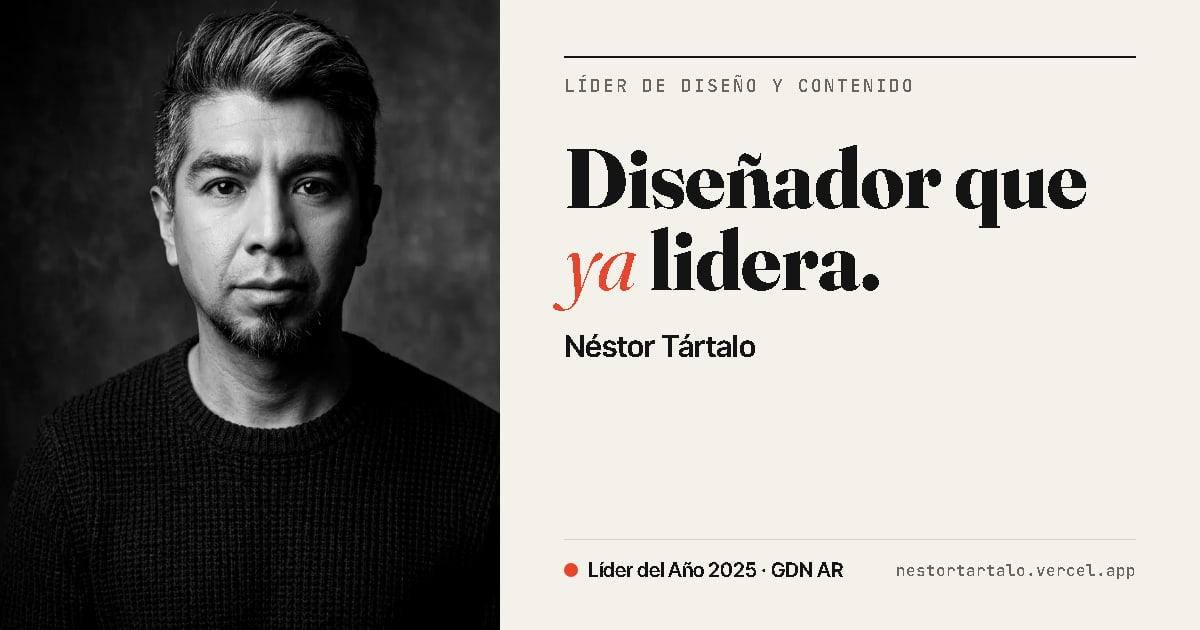
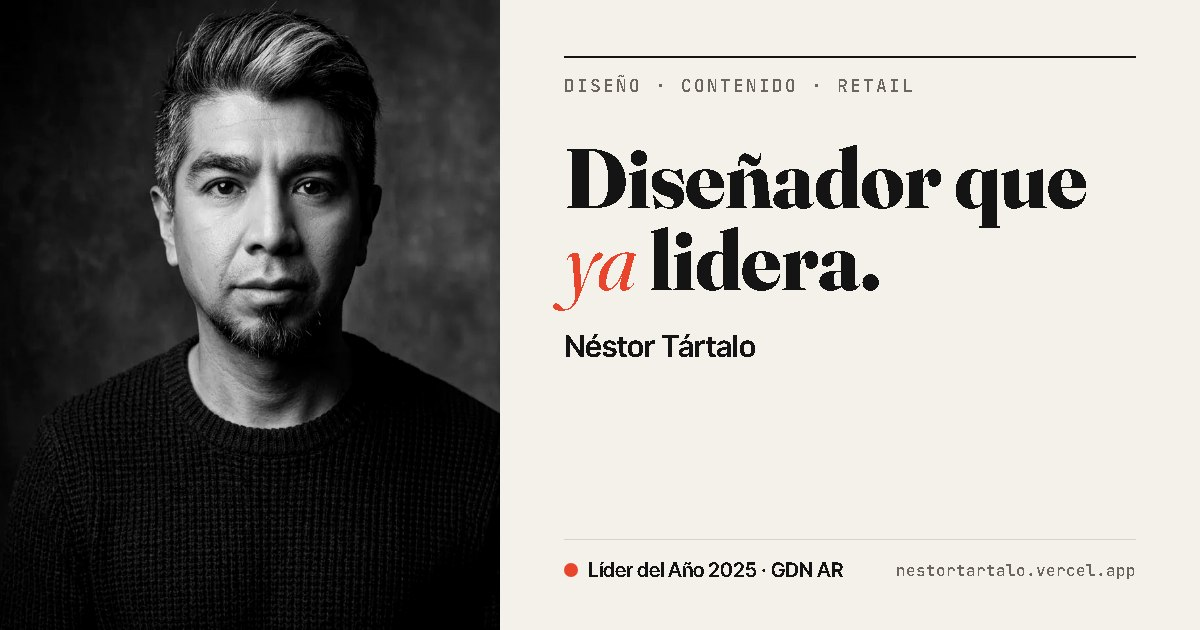
fix: vista previa y portada sin el nombre del cargo
- Tarjeta de vista previa: la etiqueta pasa a "Diseño · Contenido · Retail"
  y se regenera index.jpg (v=4 para que WhatsApp y LinkedIn la actualicen)
- og:description y franja de la portada ("Área") sin "Líder de Diseño y
  Contenido"; el recuadro "Siguiente" dice "Liderar diseño y contenido"

Changed region(s): [[0.4933, 0.1206, 0.7708, 0.1508], [0.555, 0.2714, 0.5858, 0.3016], [0.4933, 0.5429, 0.5242, 0.573]]

diff --git a/index.html b/index.html
@@ -8,9 +8,9 @@
   <meta property="og:site_name" content="Néstor Tártalo" />
   <meta property="og:locale" content="es_AR" />
   <meta property="og:title" content="Néstor Tártalo — Diseñador que ya lidera" />
-  <meta property="og:description" content="Líder del Año 2025 en GDN AR. Más de 20 años en retail y hotelería y diseñador gráfico de formación. Mi respuesta al brief de Líder de Diseño y Contenido." />
+  <meta property="og:description" content="Líder del Año 2025 en GDN AR. Más de 20 años en retail y hotelería y diseñador gráfico de formación. Diseño · Contenido · Retail." />
   <meta property="og:url" content="https://nestortartalo.vercel.app/" />
-  <meta property="og:image" content="https://nestortartalo.vercel.app/imagenes/og/index.jpg?v=3" />
+  <meta property="og:image" content="https://nestortartalo.vercel.app/imagenes/og/index.jpg?v=4" />
   <meta property="og:image:width" content="1200" />
   <meta property="og:image:height" content="630" />
   <meta name="twitter:card" content="summary_large_image" />
@@ -237,7 +237,7 @@
       <div class="wrap">
         <div class="meta">
           <div><span class="label">Documento</span><p>Brief Nº 001</p></div>
-          <div><span class="label">Puesto</span><p>Líder de Diseño y Contenido</p></div>
+          <div><span class="label">Área</span><p>Diseño · Contenido · Retail</p></div>
           <div><span class="label">Postulante</span><p>Néstor Tártalo</p></div>
           <div><span class="label">Base</span><p>San Juan, Argentina</p></div>
         </div>
@@ -313,7 +313,7 @@
           </div>
           <div class="merge">
             <span class="label">Siguiente</span>
-            <strong>Líder de Diseño y Contenido</strong>
+            <strong>Liderar diseño y contenido</strong>
           </div>
         </div>
       </div>

diff --git a/imagenes/og/og-card.html b/imagenes/og/og-card.html
@@ -23,7 +23,7 @@
 <body>
   <div class="photo"></div>
   <div class="txt">
-    <p class="label">Líder de Diseño y Contenido</p>
+    <p class="label">Diseño · Contenido · Retail</p>
     <h1>Diseñador que <em>ya</em> lidera.</h1>
     <p class="name">Néstor Tártalo</p>
     <div class="foot">
